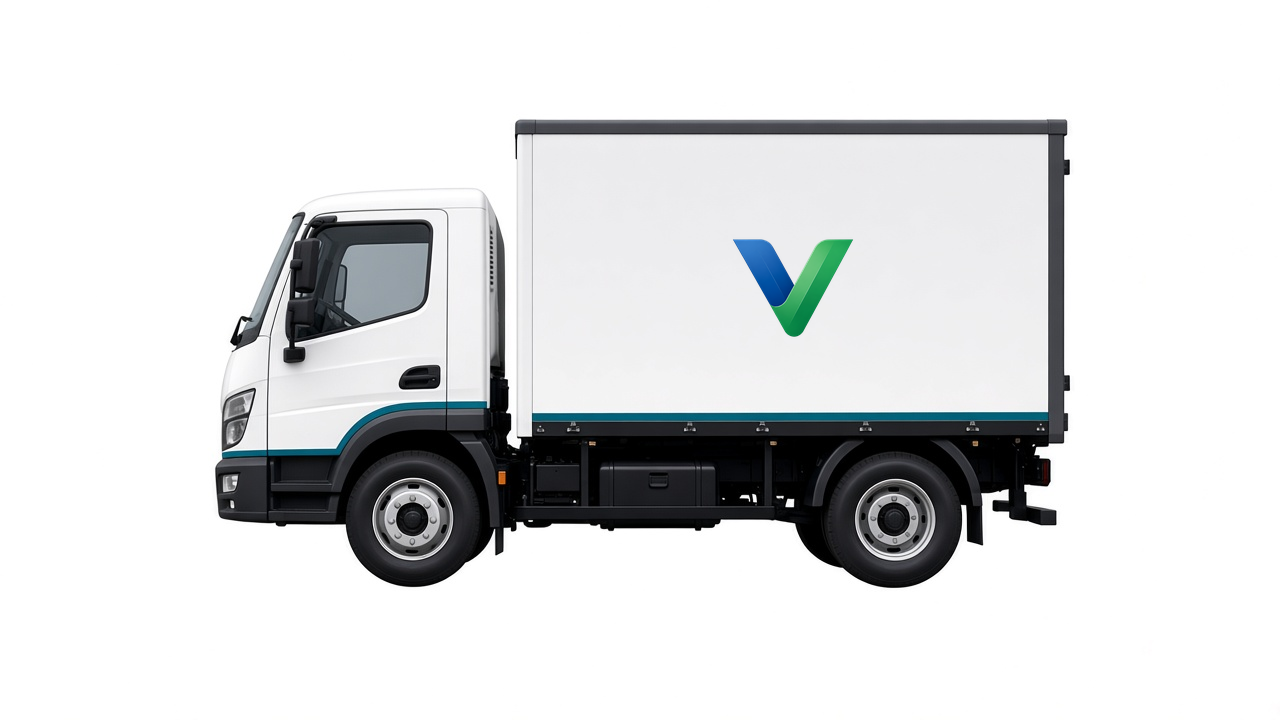
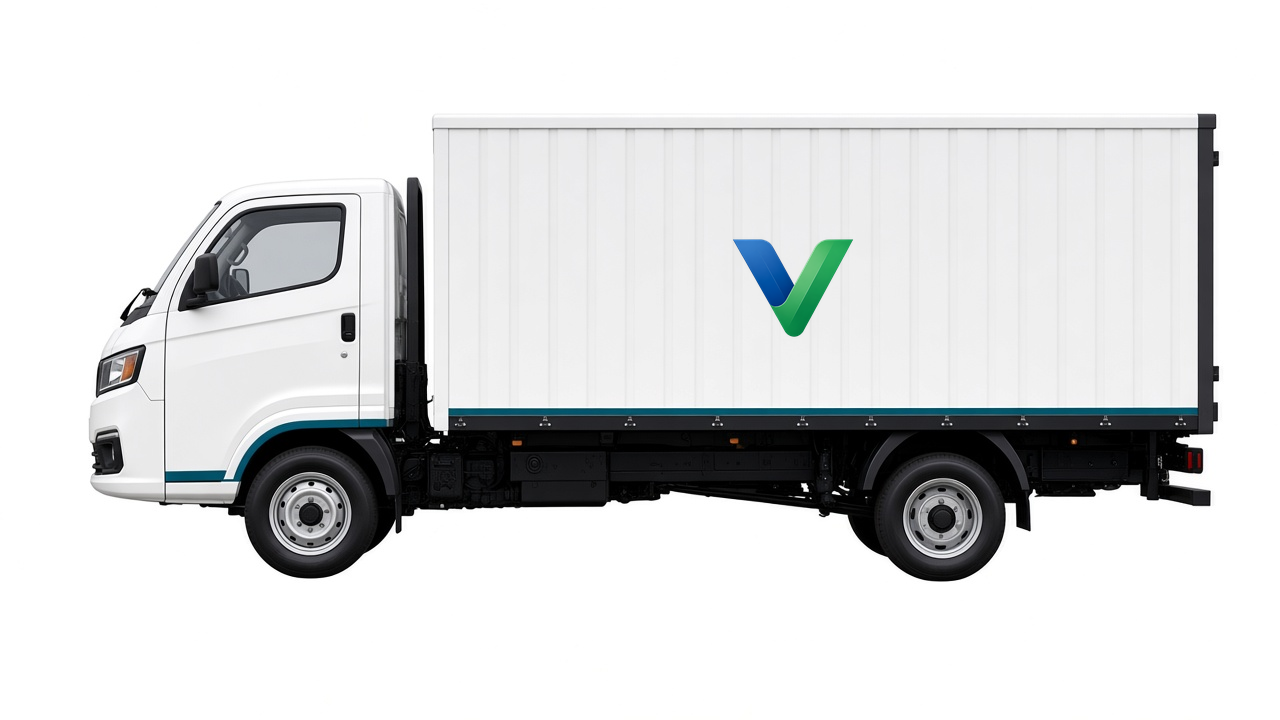
Refresh Dost, Eicher and Tata looks and add Bharat Benz
Dost and Bada Dost now use pickup-shaped artwork. The Eicher Pro
2049XP photo is a left-facing catalog side view for 12 ft and the same
asset for 14 ft 2049 Plus. Each size lists up to four brands, Tata first,
including BharatBenz on LCV sizes. Container boxes keep the V mark.

Changed region(s): [[0.0625, 0.1528, 0.9688, 0.825]]

diff --git a/assets/booking-common.js b/assets/booking-common.js
@@ -5,16 +5,22 @@ export const VEHICLES = [
   { id: "tata-ace", name: "Tata Ace", make: "Tata", feet: [7], bodies: ["open", "container"], image: "ace" },
   { id: "tata-intra", name: "Tata Intra", make: "Tata", feet: [8, 9], bodies: ["open", "container"], image: "intra" },
   { id: "bolero-17", name: "Mahindra Bolero 1.7 Pickup", make: "Mahindra", feet: [8, 9], bodies: ["open"], image: "bolero-17" },
+  { id: "dost", name: "Ashok Leyland Dost", make: "Ashok Leyland", feet: [8, 9], bodies: ["open", "container"], image: "dost" },
   { id: "intra-v70", name: "Tata Intra V70", make: "Tata", feet: [10, 11, 12], bodies: ["open", "container"], image: "v70" },
   { id: "bolero-maxx", name: "Mahindra Bolero Maxx Pickup", make: "Mahindra", feet: [10], bodies: ["open"], image: "bolero-maxx" },
-  { id: "bada-dost", name: "Ashok Leyland Bada Dost", make: "Ashok Leyland", feet: [11, 12], bodies: ["open", "container"], image: "bada-dost" },
-  { id: "tata-407", name: "Tata 407", make: "Tata", feet: [14], bodies: ["open", "container"], image: "lcv-small" },
-  { id: "eicher-2049", name: "Eicher Pro 2049", make: "Eicher", feet: [14], bodies: ["open", "container"], image: "lcv-small" },
+  { id: "bada-dost", name: "Ashok Leyland Bada Dost", make: "Ashok Leyland", feet: [10, 11, 12], bodies: ["open", "container"], image: "bada-dost" },
+  { id: "eicher-2049xp", name: "Eicher Pro 2049XP", make: "Eicher", feet: [12], bodies: ["open", "container"], image: "eicher-2049xp" },
+  { id: "tata-407", name: "Tata 407", make: "Tata", feet: [14], bodies: ["open", "container"], image: "tata-407" },
+  { id: "eicher-2049plus", name: "Eicher Pro 2049 Plus", make: "Eicher", feet: [14], bodies: ["open", "container"], image: "eicher-2049plus" },
+  { id: "al-partner", name: "Ashok Leyland Partner", make: "Ashok Leyland", feet: [14], bodies: ["open", "container"], image: "lcv-small" },
+  { id: "bb-914", name: "BharatBenz 914", make: "Bharat Benz", feet: [14], bodies: ["open", "container"], image: "bharat-benz" },
   { id: "tata-1109", name: "Tata 1109", make: "Tata", feet: [17], bodies: ["open", "container"], image: "lcv-mid" },
   { id: "eicher-3015", name: "Eicher Pro 3015", make: "Eicher", feet: [17, 19], bodies: ["open", "container"], image: "lcv-mid" },
+  { id: "al-1616", name: "Ashok Leyland 1616", make: "Ashok Leyland", feet: [17, 20, 22, 24], bodies: ["open", "container"], image: "lcv-mid" },
+  { id: "bb-1217", name: "BharatBenz 1217", make: "Bharat Benz", feet: [17, 19, 20], bodies: ["open", "container"], image: "bharat-benz" },
   { id: "tata-lpt", name: "Tata LPT 1613", make: "Tata", feet: [19, 20], bodies: ["open", "container"], image: "lcv-mid" },
-  { id: "al-1616", name: "Ashok Leyland 1616", make: "Ashok Leyland", feet: [20, 22, 24], bodies: ["open", "container"], image: "lcv-mid" },
   { id: "tata-22", name: "Tata LPT 22 ft", make: "Tata", feet: [22, 24], bodies: ["open", "container"], image: "lcv-mid" },
+  { id: "bb-1923", name: "BharatBenz 1923", make: "Bharat Benz", feet: [22, 24, 32], bodies: ["open", "container"], image: "bharat-benz" },
   { id: "tata-32-open", name: "Tata 32 ft open", make: "Tata", feet: [32], bodies: ["open"], image: "lcv-large" },
   { id: "tata-32-box", name: "Tata 32 ft container", make: "Tata", feet: [32], bodies: ["container"], image: "lcv-large" },
   { id: "al-32", name: "Ashok Leyland 32 ft", make: "Ashok Leyland", feet: [32], bodies: ["open", "container"], image: "lcv-large" },
@@ -24,14 +30,15 @@ function makeRank(make) {
   if (make === "Tata") return 0;
   if (make === "Mahindra") return 1;
   if (make === "Eicher") return 2;
-  return 3;
+  if (make === "Ashok Leyland") return 3;
+  return 4;
 }
 
-function topTwo(list) {
+function topChoices(list) {
   return list
     .slice()
     .sort((a, b) => makeRank(a.make) - makeRank(b.make) || a.name.localeCompare(b.name))
-    .slice(0, 2);
+    .slice(0, 4);
 }
 
 export function sizeClass(feet) {
@@ -46,9 +53,9 @@ export function vehiclesFor(feet, bodyType) {
   const n = Number(feet);
   const body = bodyType === "open" ? "open" : "container";
   const match = VEHICLES.filter((v) => v.feet.includes(n) && v.bodies.includes(body));
-  if (match.length) return topTwo(match);
+  if (match.length) return topChoices(match);
   const anyAtSize = VEHICLES.filter((v) => v.feet.includes(n));
-  if (anyAtSize.length) return topTwo(anyAtSize);
+  if (anyAtSize.length) return topChoices(anyAtSize);
   let nearest = 20;
   let best = 99;
   VEHICLES.forEach((v) => {
@@ -60,7 +67,7 @@ export function vehiclesFor(feet, bodyType) {
       }
     });
   });
-  return topTwo(VEHICLES.filter((v) => v.feet.includes(nearest) && v.bodies.includes(body)));
+  return topChoices(VEHICLES.filter((v) => v.feet.includes(nearest) && v.bodies.includes(body)));
 }
 
 export function vehicleSrc(vehicle, bodyType) {

diff --git a/truck-types.html b/truck-types.html
@@ -40,7 +40,7 @@
 
       <section class="about-block">
         <h2>Small and mini trucks (about 7–12 ft)</h2>
-        <p>Two options per size, Tata first where it applies: Tata Ace (7 ft); Tata Intra and Mahindra Bolero 1.7 Pickup (8–9 ft); Tata Intra V70 and Mahindra Bolero Maxx Pickup (10 ft); Tata Intra V70 and Ashok Leyland Bada Dost (11–12 ft). Container versions show the Verified Trucks V on the box.</p>
+        <p>Up to four brands per size, Tata first: Tata Ace (7 ft); Tata Intra, Mahindra Bolero 1.7 Pickup and Ashok Leyland Dost (8–9 ft); Tata Intra V70, Mahindra Bolero Maxx and Ashok Leyland Bada Dost (10 ft); Tata Intra V70, Bada Dost and Eicher Pro 2049XP (12 ft). Container boxes carry the Verified Trucks V.</p>
         <div class="cta-row">
           <a class="cta-btn" href="/#book">Book a mini truck</a>
         </div>
